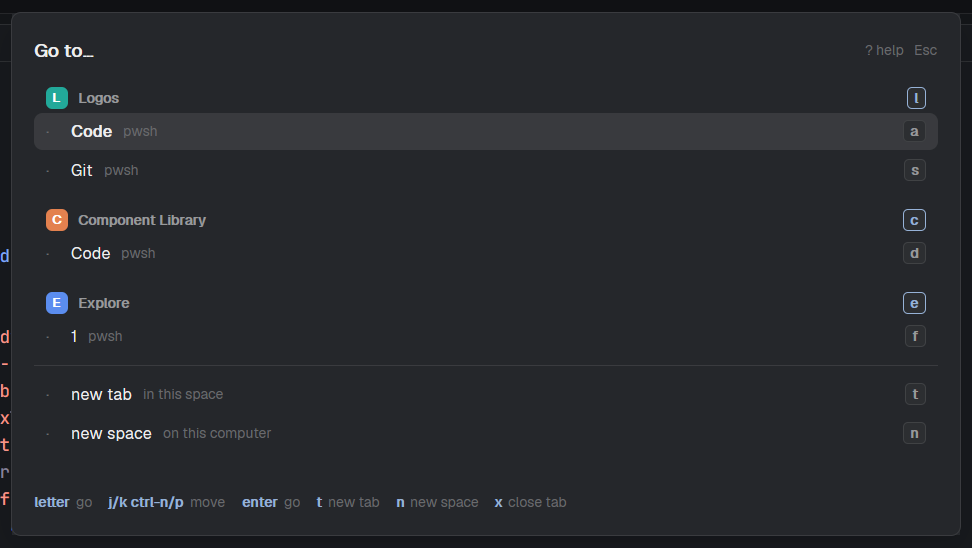
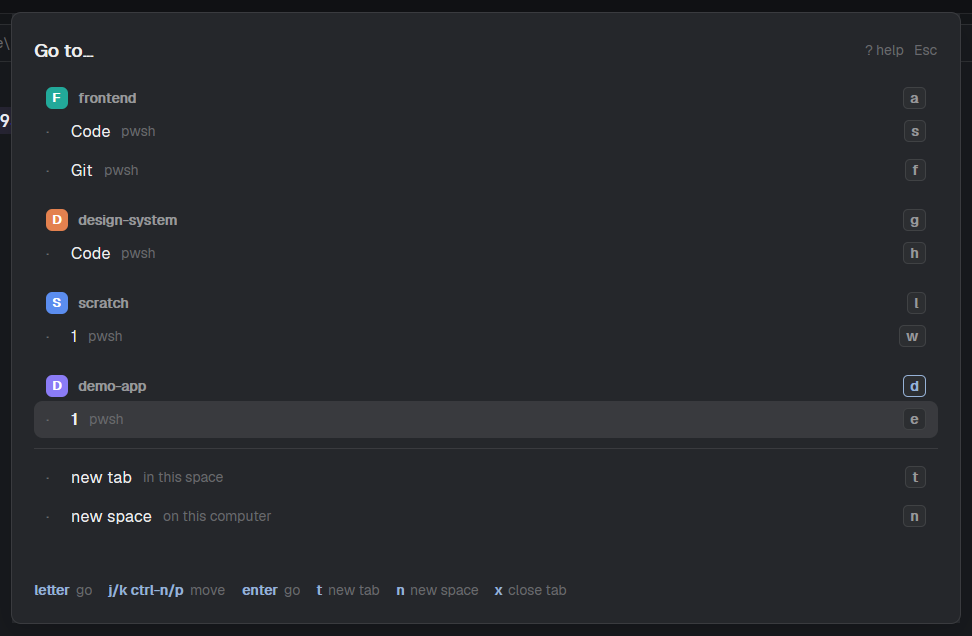
Generic names in the previews, drop the leader shot
Also a procs.all command so the every-space toggle can be bound to a key.

diff --git a/procs/main.js b/procs/main.js
@@ -203,6 +203,7 @@ export default class Procs extends View {
         if (c === "stopall") await this.stopAll(cx);
         else if (c === "up") await this.up(cx);
         else if (c === "peek") this.peek(this.items()[this.at ?? 0]);
+        else if (c === "all") { this.all = !this.all; localStorage.setItem("all", this.all ? "1" : "0"); this.at = null; this.reload(cx); }
         else if (c === "focus") this.handle.focus();
         cx.notify();
       }

diff --git a/README.md b/README.md
@@ -38,8 +38,6 @@ Open the popup, hit `u`, everything starts in the background. Each row has a let
 
 A tmux-style prefix key. Press `ctrl-a`, then one more key.
 
-![leader](leader/preview.png)
-
 Mappings live in `~/.config/herdr-app/leader.json`. Copy `leader/leader.example.json` there to start:
 
 ```json
